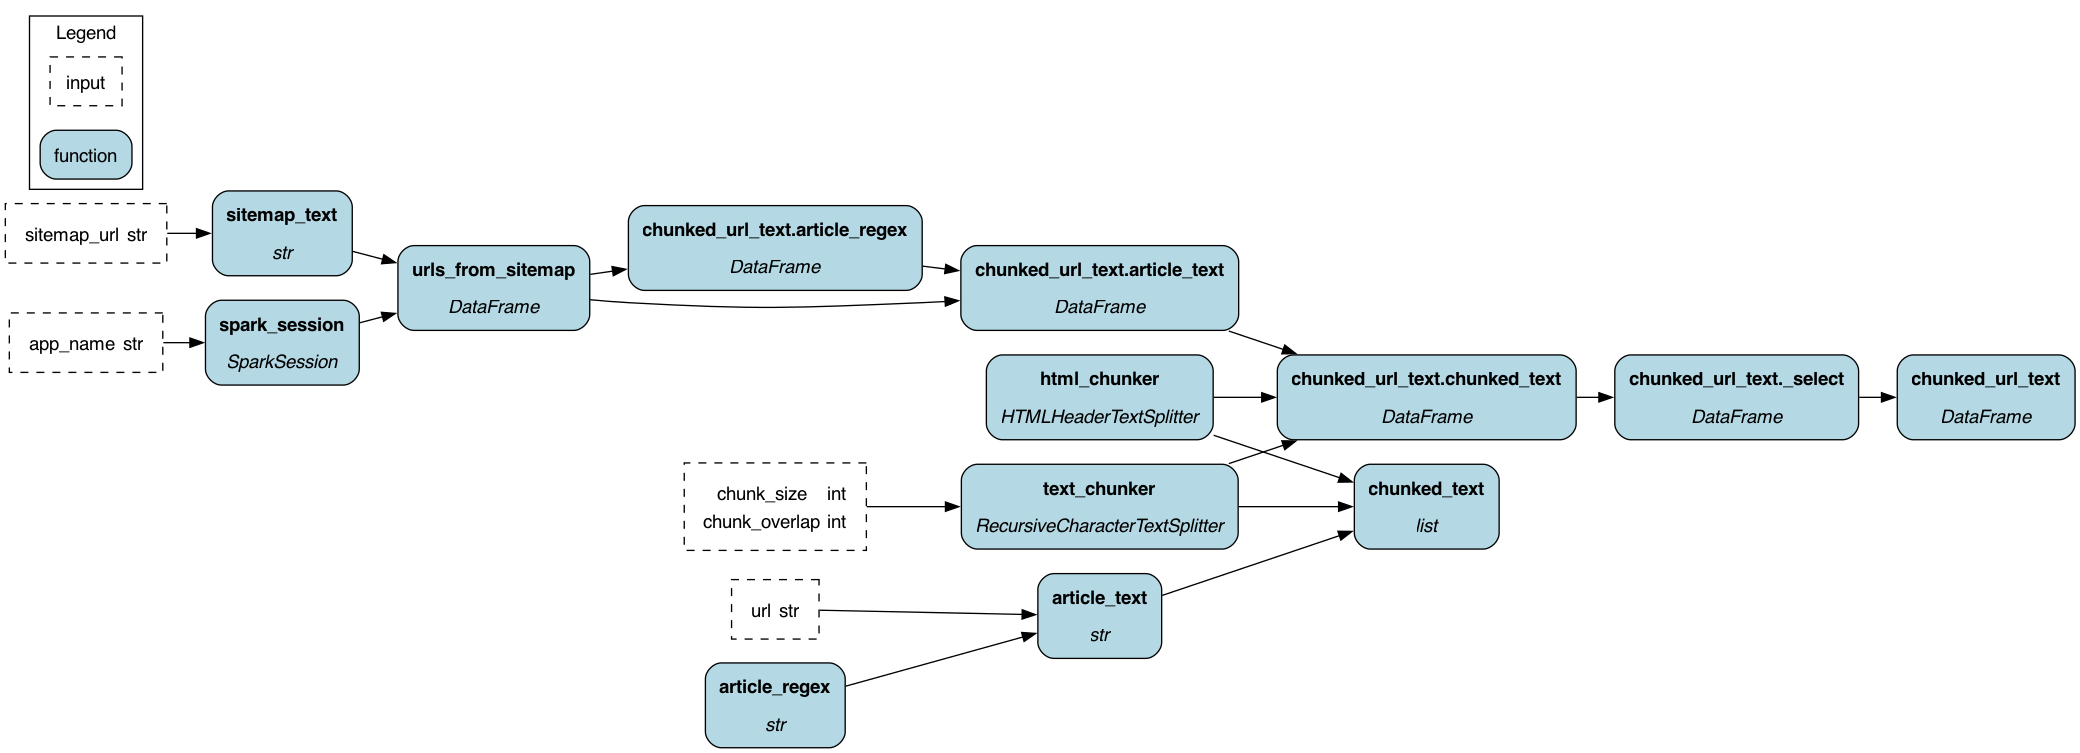
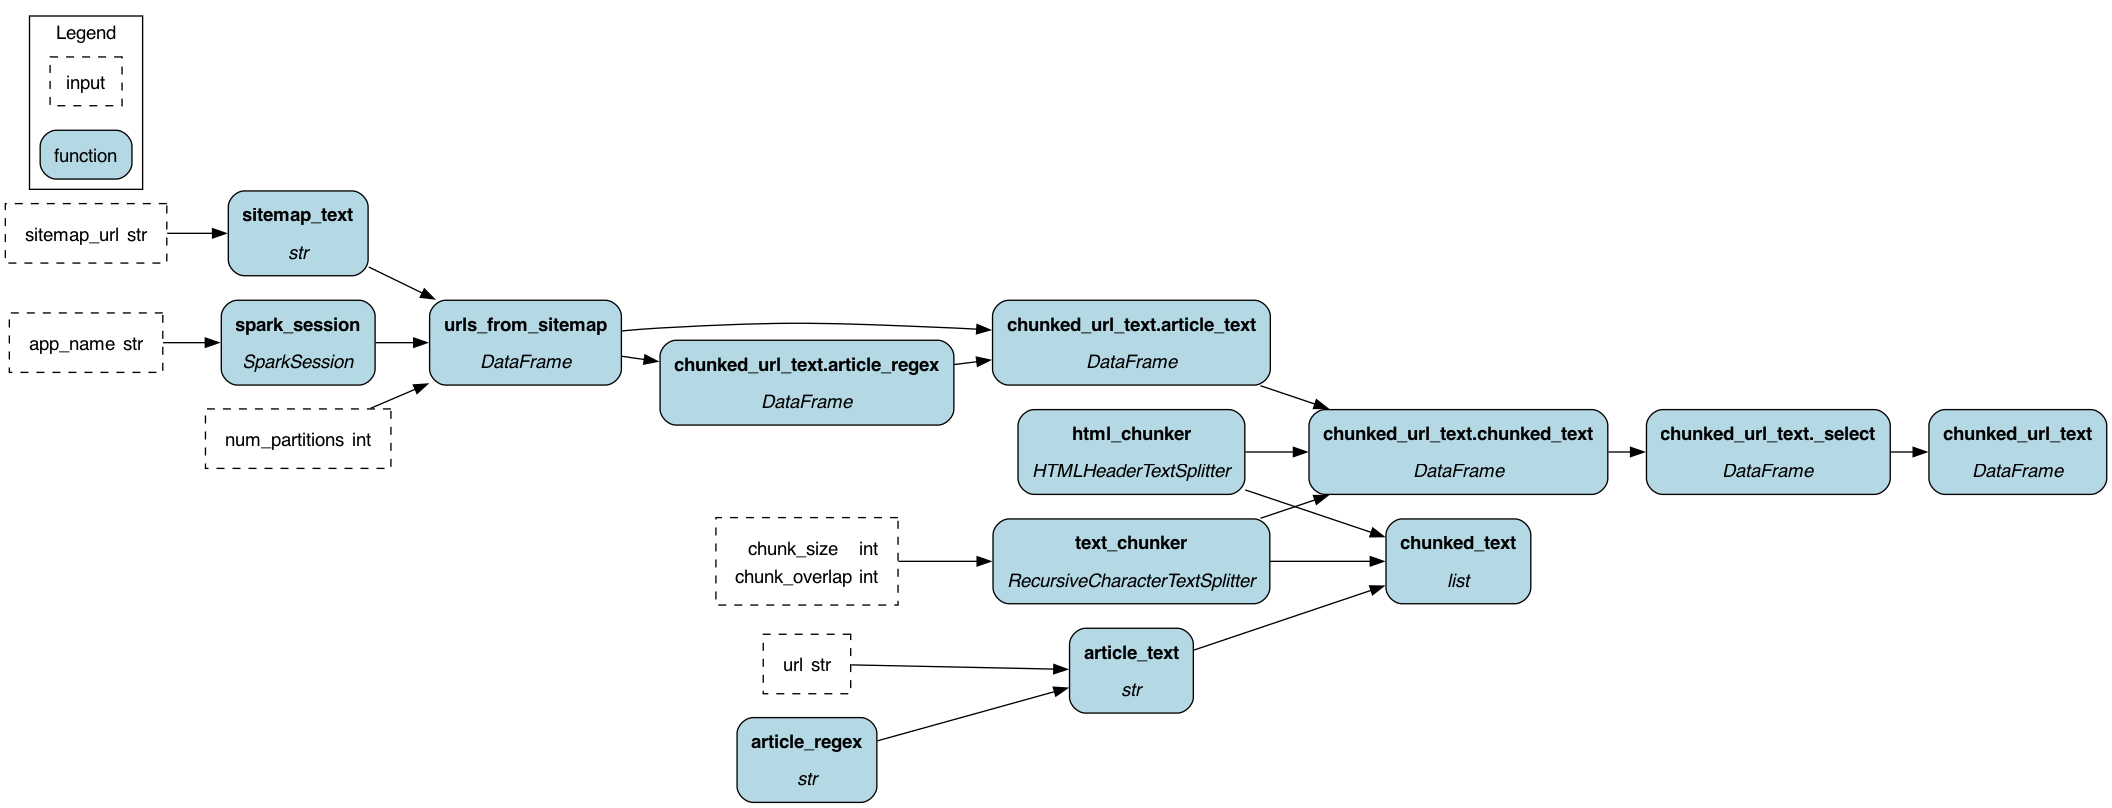
Adds h_spark.select
Adds select decorator convenience function -- that way it's clearer
if that mode is wanted.
Adds some more comments to explain some options better.

Changed region(s): [[0.0, 0.0, 1.0, 1.0]]

diff --git a/hamilton/plugins/h_spark.py b/hamilton/plugins/h_spark.py
@@ -264,7 +264,6 @@ def _determine_parameters_to_bind(
 
     :param actual_kwargs: the input dictionary of arguments for the function.
     :param df_columns: the set of column names in the dataframe.
-    :param hamilton_udf: the callable to bind to.
     :param node_input_types: the input types of the function.
     :param node_name: name of the node/function.
     :return: a tuple of the params that come from the dataframe and the parameters to bind.
@@ -1002,8 +1001,6 @@ class with_columns(fm_base.NodeCreator):
 
 
         :param load_from: The functions that will be used to generate the group of map operations.
-        :param select: Columns to select from the transformation. If this is left blank it will
-            add all possible columns from the subdag to the dataframe.
         :param columns_to_pass: The initial schema of the dataframe. This is used to determine which
             upstream inputs should be taken from the dataframe, and which shouldn't. Note that, if this is
             left empty (and external_inputs is as well), we will assume that all dependencies come
@@ -1011,14 +1008,17 @@ class with_columns(fm_base.NodeCreator):
         :param pass_dataframe_as: The name of the dataframe that we're modifying, as known to the subdag.
             If you pass this in, you are responsible for extracting columns out. If not provided, you have
             to pass columns_to_pass in, and we will extract the columns out for you.
+        :param select: Outputs to select from the subdag, i.e. functions/module passed int. If this is left
+            blank it will add all possible columns from the subdag to the dataframe.
         :param namespace: The namespace of the nodes, so they don't clash with the global namespace
             and so this can be reused. If its left out, there will be no namespace (in which case you'll want
             to be careful about repeating it/reusing the nodes in other parts of the DAG.)
         :param mode: The mode of the operation. This can be either "append" or "select".
-            If it is "append", it will keep all original columns in the dataframe. If it is "select",
-            it will only keep the columns in the dataframe from the `select` parameter. Note that,
-            if the `select` parameter is left blank, it will add all columns in the dataframe
-            that are in the subdag. This defaults to `append`.
+            If it is "append", it will keep all original columns in the dataframe, and append what's in select.
+            If it is "select", it will do a global select of columns in the dataframe from the `select` parameter.
+            Note that, if the `select` parameter is left blank, it will add all columns in the dataframe
+            that are in the subdag. This defaults to `append`. If you're using select, use the `@select` decorator
+            instead.
         :param config_required: the list of config keys that are required to resolve any functions. Pass in None\
             if you want the functions/modules to have access to all possible config.
         """
@@ -1253,3 +1253,93 @@ class with_columns(fm_base.NodeCreator):
 
     def validate(self, fn: Callable):
         _derive_first_dataframe_parameter_from_fn(fn)
+
+
+class select(with_columns):
+    def __init__(
+        self,
+        *load_from: Union[Callable, ModuleType],
+        columns_to_pass: List[str] = None,
+        pass_dataframe_as: str = None,
+        output_cols: List[str] = None,
+        namespace: str = None,
+        config_required: List[str] = None,
+    ):
+        """Initializes a select decorator for spark. This allows you to efficiently run
+         groups of map operations on a dataframe, represented as pandas/primitives UDFs. This
+         effectively "linearizes" compute -- meaning that a DAG of map operations can be run
+         as a set of `.select` operations on a single dataframe -- ensuring that you don't have
+         to do a complex `extract` then `join` process on spark, which can be inefficient.
+
+         Here's an example of calling it -- if you've seen `@subdag`, you should be familiar with
+         the concepts:
+
+         .. code-block:: python
+
+             # my_module.py
+             def a(a_from_df: pd.Series) -> pd.Series:
+                 return _process(a)
+
+             def b(b_from_df: pd.Series) -> pd.Series:
+                 return _process(b)
+
+             def a_plus_b(a_from_df: pd.Series, b_from_df: pd.Series) -> pd.Series:
+                 return a + b
+
+
+             # the with_columns call
+             @select(
+                 load_from=[my_module], # Load from any module
+                 columns_to_pass=["a_from_df", "b_from_df"], # The columns to pass from original dataframe to
+                 output_cols=["a", "b", "a_plus_b"], # The columns to have in the final dataframe
+             )
+             def final_df(initial_df: ps.DataFrame) -> ps.DataFrame:
+                 # process, or just return unprocessed
+                 ...
+
+         You can think of the above as a series of select/withColumns calls on the dataframe, where the
+         operations are applied in topological order. This is significantly more efficient than
+         extracting out the columns, applying the maps, then joining, but *also* allows you to
+         express the operations individually, making it easy to unit-test and reuse.
+
+         Note that the operation is "append", meaning that the columns that are selected are appended
+         onto the dataframe, and then at the end only what is request is selected.
+
+         If the function takes multiple dataframes, the dataframe input to process will always be
+         the first one. This will be passed to the subdag, transformed, and passed back to the functions.
+         This follows the hamilton rule of reference by parameter name. To demonstarte this, in the code
+         above, the dataframe that is passed to the subdag is `initial_df`. That is transformed
+         by the subdag, and then returned as the final dataframe.
+
+         You can read it as:
+
+         "final_df is a function that transforms the upstream dataframe initial_df, running the transformations
+         from my_module. It starts with the columns a_from_df and b_from_df, and then adds the columns
+         a, b, and a_plus_b to the dataframe. It then returns the dataframe, and does some processing on it."
+
+
+        :param load_from: The functions that will be used to generate the group of map operations.
+        :param columns_to_pass: The initial schema of the dataframe. This is used to determine which
+            upstream inputs should be taken from the dataframe, and which shouldn't. Note that, if this is
+            left empty (and external_inputs is as well), we will assume that all dependencies come
+            from the dataframe. This cannot be used in conjunction with pass_dataframe_as.
+        :param pass_dataframe_as: The name of the dataframe that we're modifying, as known to the subdag.
+            If you pass this in, you are responsible for extracting columns out. If not provided, you have
+            to pass columns_to_pass in, and we will extract the columns out for you.
+        :param output_cols: Columns to select in the final dataframe. If this is left blank it will
+            add all possible columns from the subdag to the dataframe.
+        :param namespace: The namespace of the nodes, so they don't clash with the global namespace
+            and so this can be reused. If its left out, there will be no namespace (in which case you'll want
+            to be careful about repeating it/reusing the nodes in other parts of the DAG.)
+        :param config_required: the list of config keys that are required to resolve any functions. Pass in None\
+            if you want the functions/modules to have access to all possible config.
+        """
+        super(select, self).__init__(
+            *load_from,
+            columns_to_pass=columns_to_pass,
+            pass_dataframe_as=pass_dataframe_as,
+            select=output_cols,
+            namespace=namespace,
+            mode="select",
+            config_required=config_required,
+        )

diff --git a/plugin_tests/h_spark/test_h_spark.py b/plugin_tests/h_spark/test_h_spark.py
@@ -442,6 +442,29 @@ def test_base_spark_executor_end_to_end_with_mode_select(spark_session):
     pd.testing.assert_frame_equal(df, expected_df, check_names=False, check_dtype=False)
 
 
+def test_base_spark_executor_end_to_end_with_select_decorator(spark_session):
+    # copy of the test above -- they should be the same
+    dr = (
+        driver.Builder()
+        .with_modules(basic_spark_dag)
+        .with_adapter(base.SimplePythonGraphAdapter(base.DictResult()))
+        .with_config({"mode": "select_decorator"})
+        .build()
+    )
+    # dr.visualize_execution(
+    #     ["processed_df_as_pandas"], "./out", {}, inputs={"spark_session": spark_session}
+    # )
+    df = dr.execute(["processed_df_as_pandas"], inputs={"spark_session": spark_session})[
+        "processed_df_as_pandas"
+    ]
+    expected_data = {
+        "a_times_key": [2, 10, 24, 44, 70],
+        "a_plus_b_plus_c": [10.5, 20.0, 29.5, 39.0, 48.5],
+    }
+    expected_df = pd.DataFrame(expected_data)
+    pd.testing.assert_frame_equal(df, expected_df, check_names=False, check_dtype=False)
+
+
 def test_base_spark_executor_end_to_end_external_dependencies(spark_session):
     # TODO -- make this simpler to call, and not require all these constructs
     dr = (

diff --git a/examples/LLM_Workflows/scraping_and_chunking/spark/spark_pipeline.py b/examples/LLM_Workflows/scraping_and_chunking/spark/spark_pipeline.py
@@ -28,14 +28,20 @@ def sitemap_text(sitemap_url: str = "https://hamilton.dagworks.io/en/latest/site
     return sitemap.text
 
 
-def urls_from_sitemap(sitemap_text: str, spark_session: ps.SparkSession) -> ps.DataFrame:
+def urls_from_sitemap(
+    sitemap_text: str, spark_session: ps.SparkSession, num_partitions: int = 4
+) -> ps.DataFrame:
     """Takes in a sitemap.xml file contents and creates a df of all the URLs in the file.
 
     :param sitemap_text: the contents of a sitemap.xml file
     :return: df of URLs
     """
     urls = re.findall(r"<loc>(.*?)</loc>", sitemap_text)
-    df = spark_session.createDataFrame(urls, "string").toDF("url")
+    df = (
+        spark_session.createDataFrame(urls, "string")
+        .toDF("url")
+        .repartition(numPartitions=num_partitions)
+    )
     return df
 
 
@@ -71,8 +77,6 @@ if __name__ == "__main__":
     dr.display_all_functions("pipeline.png")
     result = dr.execute(
         ["chunked_url_text"],
-        inputs={
-            "app_name": "chunking_spark_job",
-        },
+        inputs={"app_name": "chunking_spark_job", "num_partitions": 4},
     )
     print(result["chunked_url_text"].show())

diff --git a/tests/resources/spark/basic_spark_dag.py b/tests/resources/spark/basic_spark_dag.py
@@ -56,7 +56,7 @@ def df_1(spark_session: ps.SparkSession) -> ps.DataFrame:
     select=["a_times_key", "b_times_key", "a_plus_b_plus_c"],
     columns_to_pass=["a_raw", "b_raw", "c_raw", "key"],
 )
-@config.when_not(mode="select")
+@config.when_not_in(mode=["select", "select_decorator"])
 def processed_df_as_pandas__append(df_1: ps.DataFrame) -> pd.DataFrame:
     return df_1.select("a_times_key", "b_times_key", "a_plus_b_plus_c").toPandas()
 
@@ -74,5 +74,21 @@ def processed_df_as_pandas__append(df_1: ps.DataFrame) -> pd.DataFrame:
 )
 @config.when(mode="select")
 def processed_df_as_pandas__select(df_1: ps.DataFrame) -> pd.DataFrame:
+    # This should have two columns
+    return df_1.toPandas()
+
+
+@h_spark.select(
+    a,
+    b,
+    c,
+    a_times_key,
+    b_times_key,
+    a_plus_b_plus_c,
+    columns_to_pass=["a_raw", "b_raw", "c_raw", "key"],
+    output_cols=["a_times_key", "a_plus_b_plus_c"],
+)
+@config.when(mode="select_decorator")
+def processed_df_as_pandas__select_decorator(df_1: ps.DataFrame) -> pd.DataFrame:
     # This should have two columns
     return df_1.toPandas()
